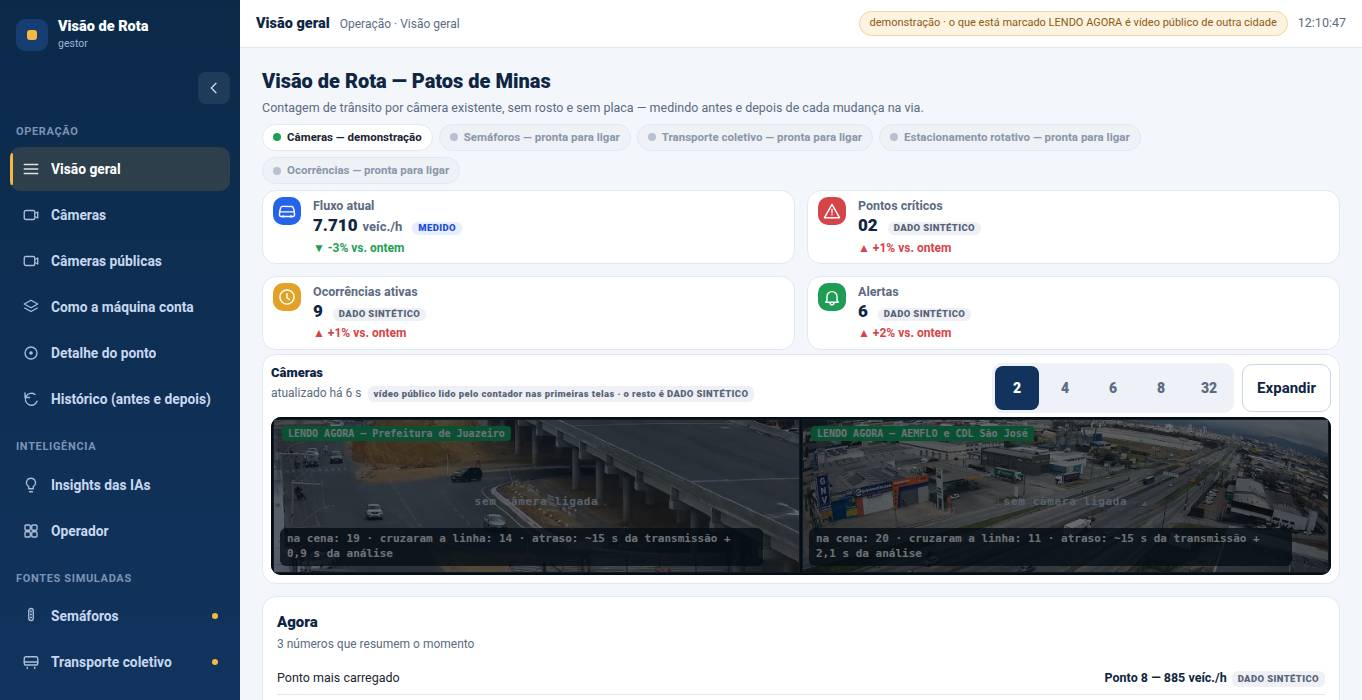
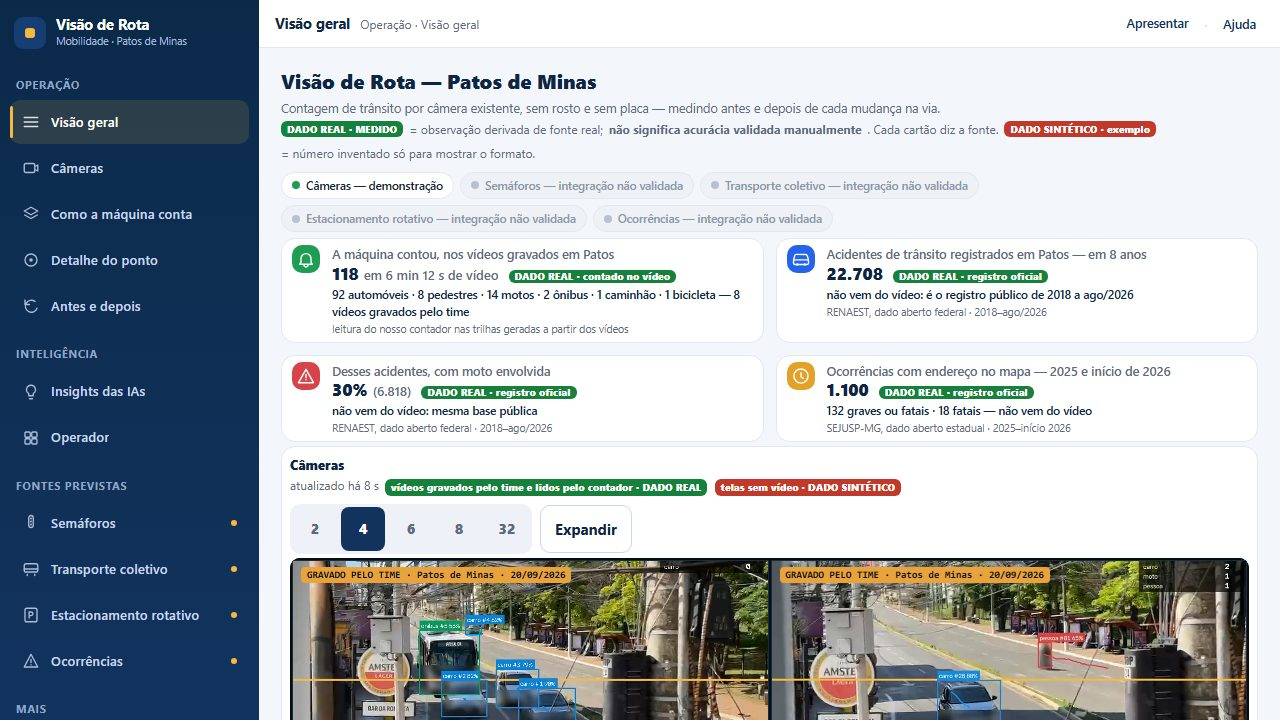
landing: arrumar a seção "O painel do gestor"
Os quatro caminhos alternativos eram <p> soltos com estilo embutido, um
por linha, e brigavam com o botão principal. Viraram uma fileira de
atalhos abaixo de um separador, reusando o estilo .layout-btn que já
existia na página. Entrou aí também o atalho para a ficha técnica
(stack, modelos de IA e custo), que antes só aparecia numa linha no pé
da página e dentro da Ajuda.

A miniatura era pequena (280px) e solta ao lado do texto. Agora ocupa a
coluna direita inteira, com moldura, sombra, leve elevação no hover e a
legenda "a tela que o gestor abre".

A miniatura também estava velha: mostrava "Câmeras públicas" no menu e os
números antigos. Regerada a partir do painel atual.

Removido o <div class="layout-picker"> vazio, que só ocupava espaço, e o
segundo botão "Entrar como gestor" logo abaixo do cartão — o mesmo botão
aparecia três vezes na mesma tela (topo, cartão e abaixo do cartão).

diff --git a/index.html b/index.html
@@ -204,9 +204,9 @@
     background:linear-gradient(135deg,var(--card),var(--card-2));
     border:1px solid var(--amber);border-radius:18px;
     padding:clamp(20px,3vw,34px);
-    display:grid;grid-template-columns:1fr auto;gap:28px;align-items:center;
+    display:grid;grid-template-columns:minmax(0,1fr) minmax(300px,420px);gap:clamp(24px,3.5vw,44px);align-items:center;
   }
-  @media (max-width:820px){.painel-hero{grid-template-columns:1fr;}}
+  @media (max-width:980px){.painel-hero{grid-template-columns:1fr;}}
   .painel-hero-txt h2{margin:0 0 10px;font-size:clamp(1.3rem,2.6vw,1.7rem);}
   .painel-hero-txt p.sub{margin:0 0 20px;color:var(--text-dim);font-size:1rem;max-width:52ch;}
   .btn-hero{
@@ -216,6 +216,10 @@
     box-shadow:0 6px 22px rgba(232,163,61,0.28);
   }
   .btn-hero:hover{filter:brightness(1.06);}
+  /* fileira de atalhos: antes eram quatro links soltos, um por linha */
+  .painel-atalhos{margin:22px 0 0;padding:18px 0 0;border-top:1px solid var(--line);}
+  .painel-atalhos .lbl{margin:0 0 11px;font-size:.72rem;letter-spacing:.09em;text-transform:uppercase;color:var(--gray);font-weight:800;}
+  .painel-atalhos .linha{display:flex;flex-wrap:wrap;gap:9px;}
   .layout-picker{margin-top:20px;}
   .layout-picker .lbl{font-size:.78rem;color:var(--gray);margin:0 0 10px;font-weight:700;letter-spacing:.04em;}
   .layout-row{display:flex;flex-wrap:wrap;gap:10px;}
@@ -227,9 +231,17 @@
   }
   .layout-btn:hover{border-color:var(--amber);color:var(--amber);}
   .layout-btn svg{width:18px;height:18px;flex:none;}
-  .painel-thumb{display:block;border-radius:12px;overflow:hidden;border:1px solid var(--line);width:280px;max-width:100%;}
+  .painel-thumb{display:block;width:100%;text-decoration:none;}
+  .painel-thumb .moldura{
+    border-radius:14px;overflow:hidden;border:1px solid rgba(232,163,61,.38);
+    box-shadow:0 18px 48px rgba(0,0,0,.42);background:var(--card-2);
+    transition:transform .18s ease, box-shadow .18s ease, border-color .18s ease;
+  }
+  .painel-thumb:hover .moldura{transform:translateY(-3px);box-shadow:0 22px 56px rgba(0,0,0,.5);border-color:var(--amber);}
   .painel-thumb img{display:block;width:100%;height:auto;}
-  @media (max-width:820px){.painel-thumb{width:100%;max-width:420px;margin:0 auto;}}
+  .painel-thumb .legenda{margin:10px 2px 0;font-size:.78rem;color:var(--gray);display:flex;align-items:center;gap:7px;}
+  .painel-thumb .legenda .pt{width:6px;height:6px;border-radius:50%;background:var(--amber);flex:none;}
+  @media (max-width:980px){.painel-thumb{max-width:520px;margin:0 auto;}}
 
   /* ---------- ver funcionando ---------- */
   .grid-2{display:grid;grid-template-columns:1fr 1fr;gap:20px;margin-bottom:26px;}
@@ -448,21 +460,23 @@ section[id],div[id]{scroll-margin-top:96px}
         <h2>O painel do gestor</h2>
         <p class="sub">Veja a cidade, entenda o problema, teste uma alternativa e meça se melhorou.</p>
         <a class="btn-hero" href="demo/entrar.html">Entrar como gestor →</a>
-        <p style="margin:12px 0 0;"><a href="demo/apresentar.html" style="color:var(--amber);font-weight:700;text-decoration:none;font-size:1rem;">ou veja o fluxo inteiro em 6 passos →</a></p>
-        <p style="margin:12px 0 0;"><a href="demo/filters.html" style="color:var(--amber);font-weight:700;text-decoration:none;font-size:1rem;">ou abra o pitch FILTERS →</a></p>
-        <p style="margin:12px 0 0;"><a href="demo/solucoes.html" style="color:var(--amber);font-weight:700;text-decoration:none;font-size:.92rem;">ou veja o que propomos, frente por frente →</a></p>
-        <div class="layout-picker">
-          <div class="layout-row">
-            </div>
+        <div class="painel-atalhos">
+          <p class="lbl">ou entre por outro caminho</p>
+          <div class="linha">
+            <a class="layout-btn" href="demo/apresentar.html">O fluxo inteiro, em 6 passos</a>
+            <a class="layout-btn" href="demo/filters.html">O pitch FILTERS</a>
+            <a class="layout-btn" href="demo/solucoes.html">O que propomos, frente por frente</a>
+            <a class="layout-btn" href="demo/ficha-tecnica.html">Ficha técnica: stack, modelos de IA e custo</a>
+          </div>
         </div>
       </div>
       <a class="painel-thumb" href="demo/entrar.html" aria-label="Abrir o painel do gestor">
-        <img src="demo/painel-miniatura.jpg" alt="Miniatura do painel do gestor" width="640" height="360" loading="lazy">
+        <span class="moldura"><img src="demo/painel-miniatura.jpg" alt="Miniatura do painel do gestor" width="640" height="360" loading="lazy"></span>
+        <span class="legenda"><span class="pt"></span>a tela que o gestor abre</span>
       </a>
     </div>
 
     <div class="hero-actions fade">
-      <a class="btn btn-amber" href="demo/entrar.html">Entrar como gestor</a>
       <a class="btn btn-outline" href="hub/index.html">Ver o hub de ideias</a>
     </div>
     <div class="seal fade"><span class="dot"></span>contagem por tipo · sem identificação de pessoa</div>
